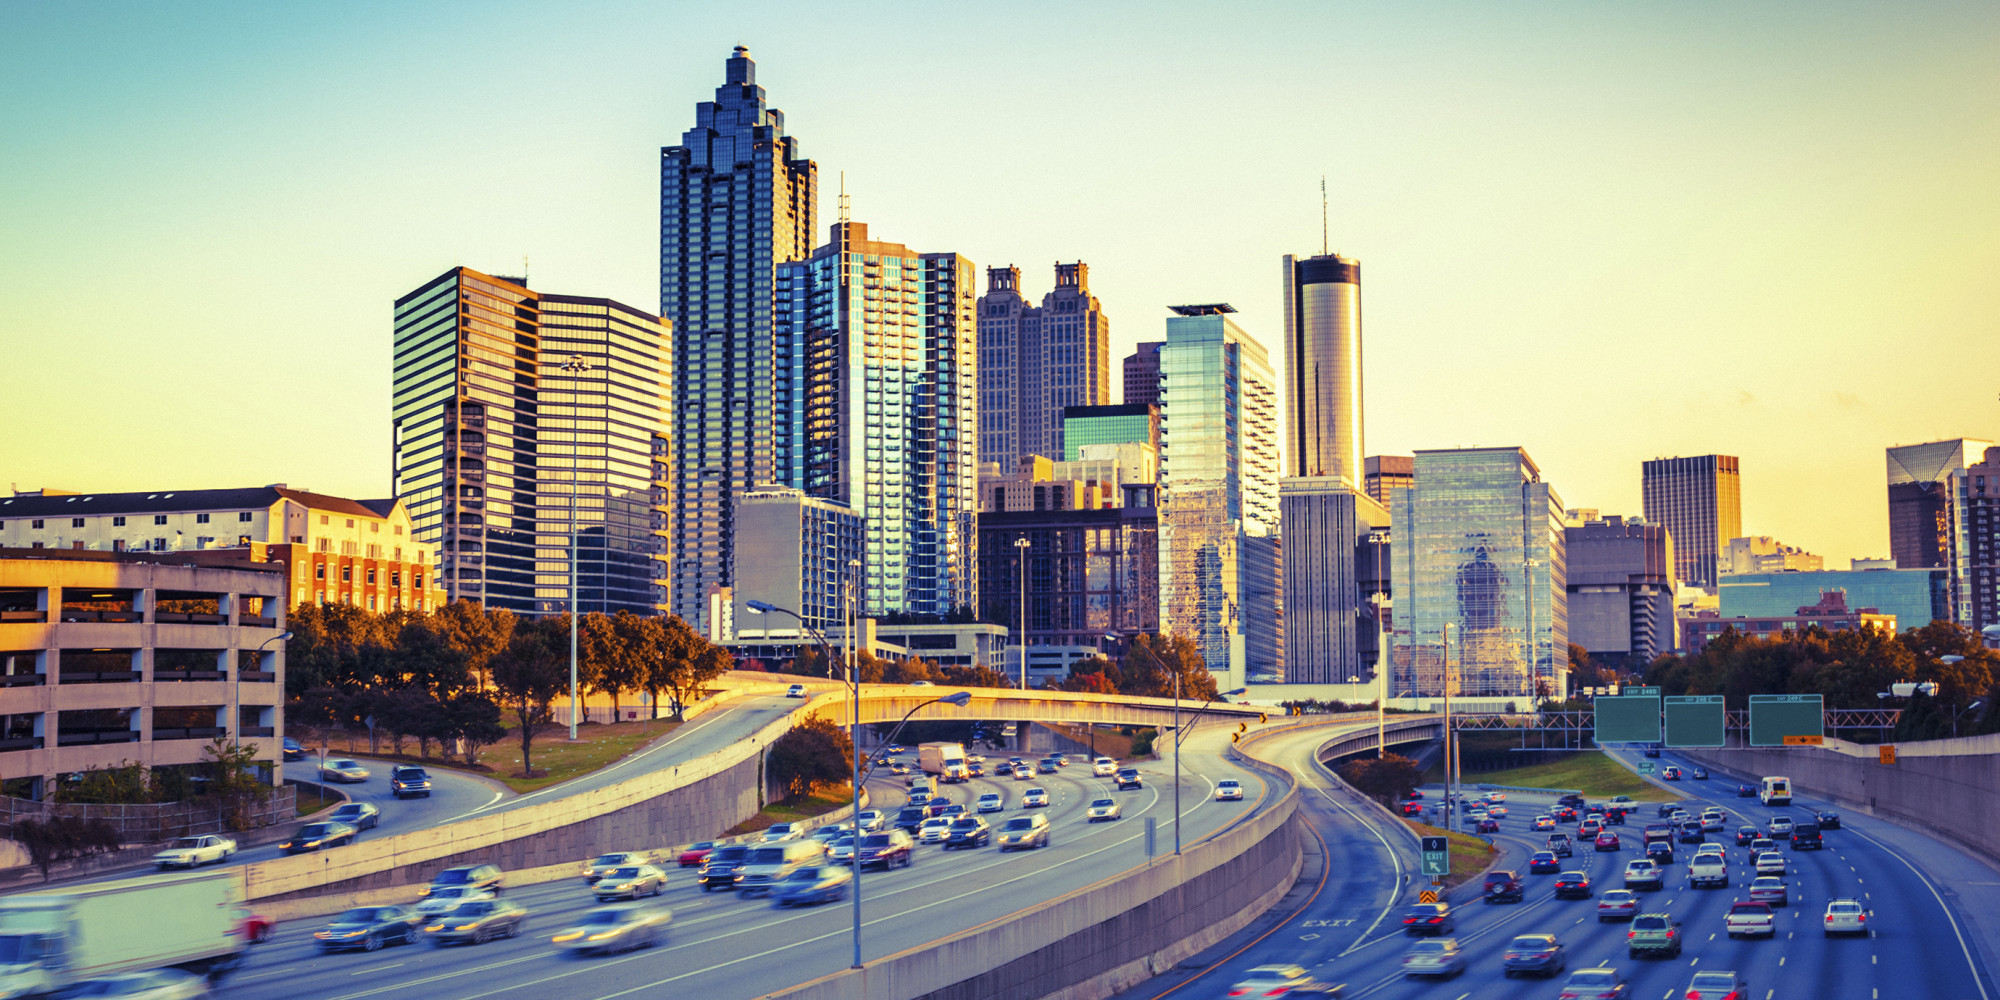
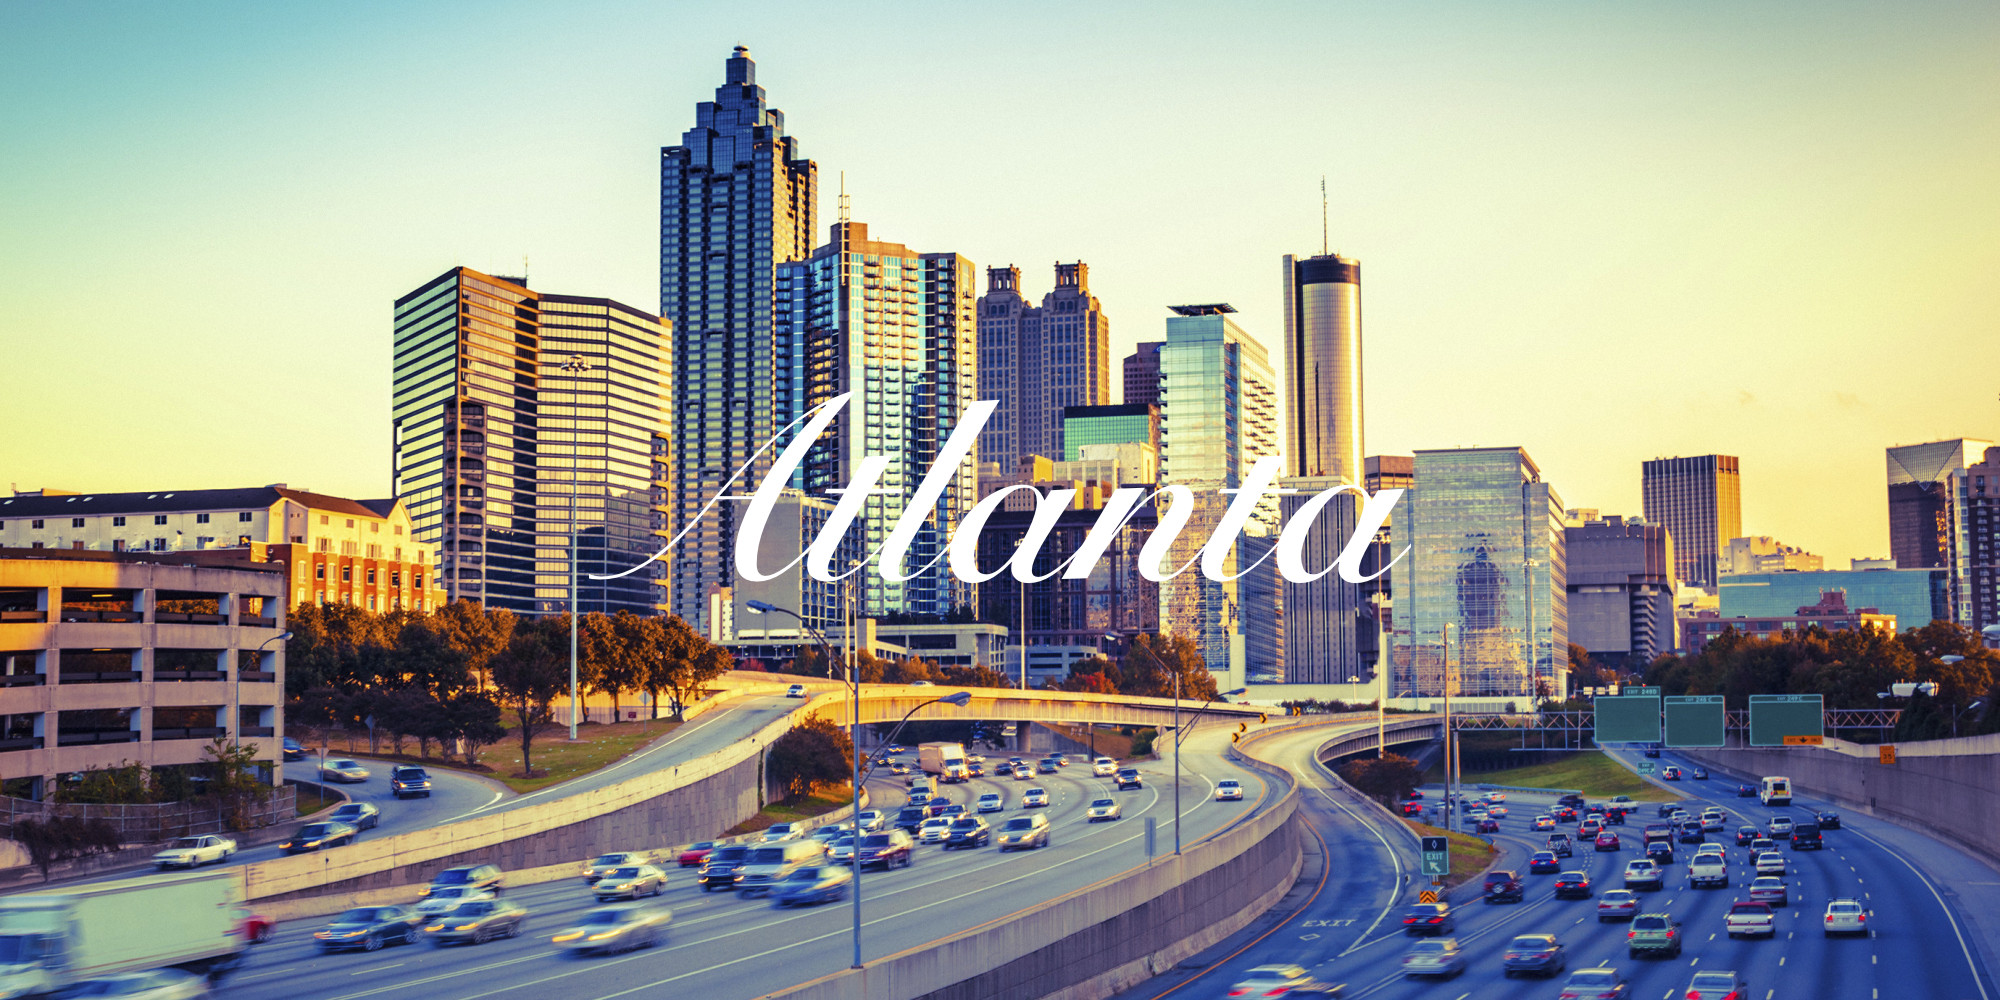
got fonts working in header and footer added font to pictures

Changed region(s): [[0.341, 0.403, 0.713, 0.589], [0.403, 0.403, 0.434, 0.434]]

diff --git a/app/assets/stylesheets/application.css b/app/assets/stylesheets/application.css
@@ -15,7 +15,7 @@
  = require_self
 
  body{
-   font-family: 'Great Vibes', cursive;
+   font-family: 'Great Vibes';
  }
 
 .logo{
@@ -26,6 +26,12 @@
 .navbar{
   background-color: #FEFFF1;
   display: inline-flex;
+}
+.navbar span{
+  font-family: 'Great Vibes';
+  color: #FD18FD;
+  text-align: center;
+  font-size: 30px;
 }
 .btn{
   color: white;
@@ -49,12 +55,13 @@ img{
   position: relative;
 
   width: 100%;
-  font-family: ;
+  font-family: 'Great Vibes';
   background-color: #FEFFF1;
   color: #FD18FD;
   text-align: center;
   padding: 20px;
 }
+
 .error{
   max-width: 50%;
   z-index: 100;
